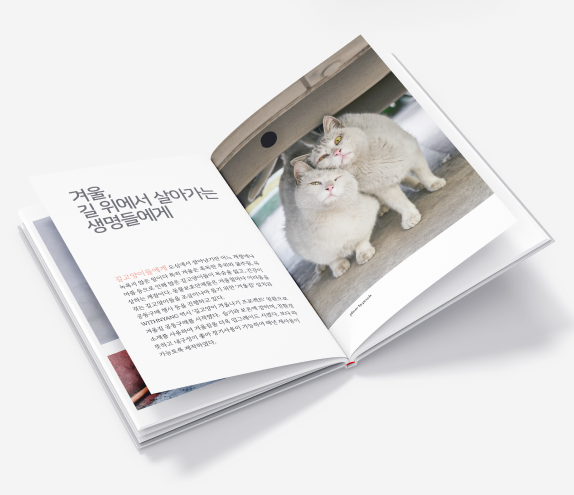
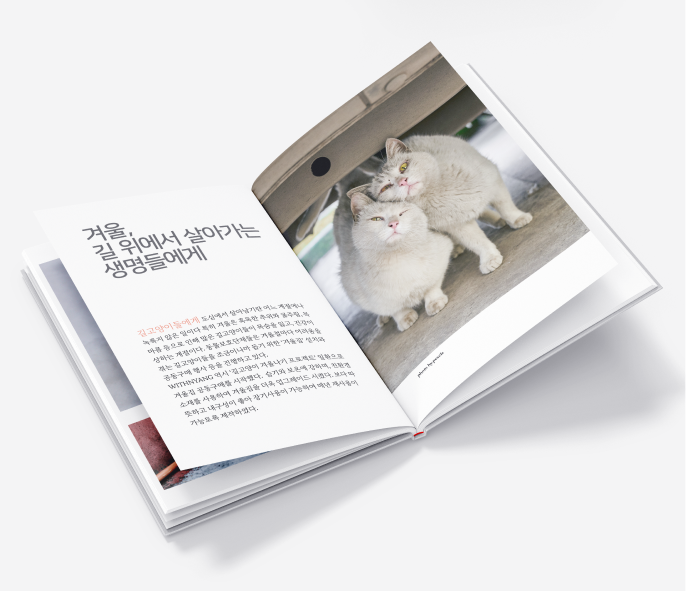
magazine

diff --git a/index.html b/index.html
@@ -214,9 +214,27 @@
                             <img src="./images/magazine.png" alt="위드냥11월호소식지">
                         </div>
                         <div class="imges_text">
-                            <p>위드냥 11월호 소식지 안내 - 길 위에서 살아가는 동물들을 위한 겨울집 공동구매 안내</p>
+                            <p>위드냥 11월호 소식지 안내 -<br /> 길 위에서 살아가는 동물들을 위한 겨울집 공동구매 안내</p>
                         </div>
                     </div>
+                    <div class="imges_container">
+                        <div class="imgBx">
+                            <img src="./images/magazine_cat.png" alt="위드냥 고양이 카페 오픈">
+                        </div>
+                        <div class="imges_text">
+                            <p>고양이 카페 오픈 예정-<br /> 길고양이를 위한 고양이 카페 오픈 예정중에 있습니다.</p>
+                        </div>
+                    </div>
+
+                    <div class="imges_container">
+                        <div class="imgBx">
+                            <img src="./images/magazine_nobg_ver.png" alt="사슴고기 사료 런칭">
+                        </div>
+                        <div class="imges_text">
+                            <p>NEW! 순수 92% 사슴고기<br /> 어떠한 첨가물도 넣지 않았습니다. 프리미엄 사료를 선물하세요.</p>
+                        </div>
+                    </div>
+
                 </div>
             </div>
             

diff --git a/css/main.css b/css/main.css
@@ -462,19 +462,39 @@ h1, h2, h3, h4, h5 {
 
 .magazine_container .imges_container .imgBx {
     position: relative;
-    width: 574px;
-    height: 495px;
-    
-    
+    width: 686px;
+    height: 591px;
+
+    top: 125px;
 }
 
 .magazine_container .imges_container .imgBx img {
     position: absolute;
     top: 0;
     left: 0;
-    width: 100%;
+    max-width: 100%;
     height: 100%;
     object-fit: cover;
+}
+
+.magazine_container .imges_container .imges_text {
+    position: absolute;
+    left: 360px;
+    margin-top: 650px;
+    max-width: 500px;
+    height: 80px;
+    background: #1A3431;
+}
+
+.magazine_container .imges_container .imges_text:nth-of-type(3) {
+    left: 0;
+}
+
+.magazine_container .imges_container .imges_text p {
+    font-size: 1.5rem;
+    color: #fff;
+    font-weight: 600;
+    line-height: 38px;
 }
 
 
